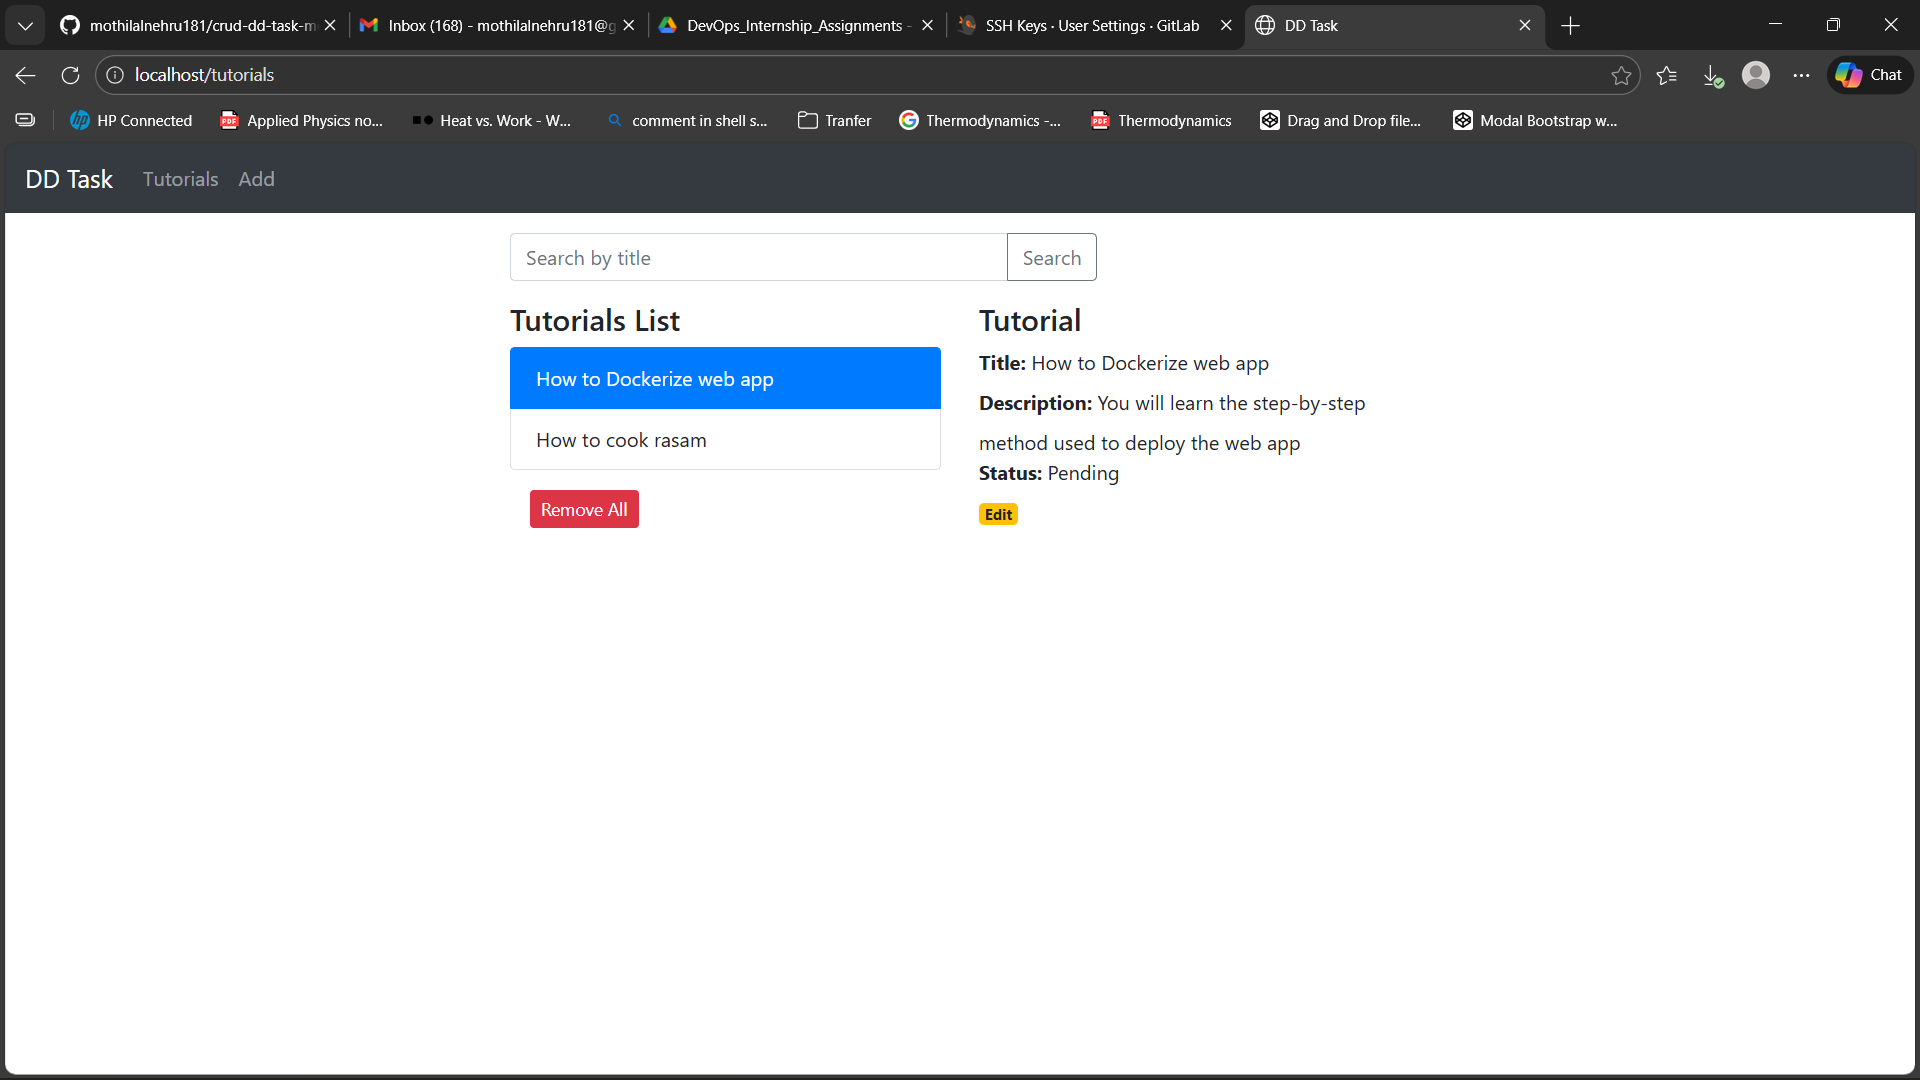
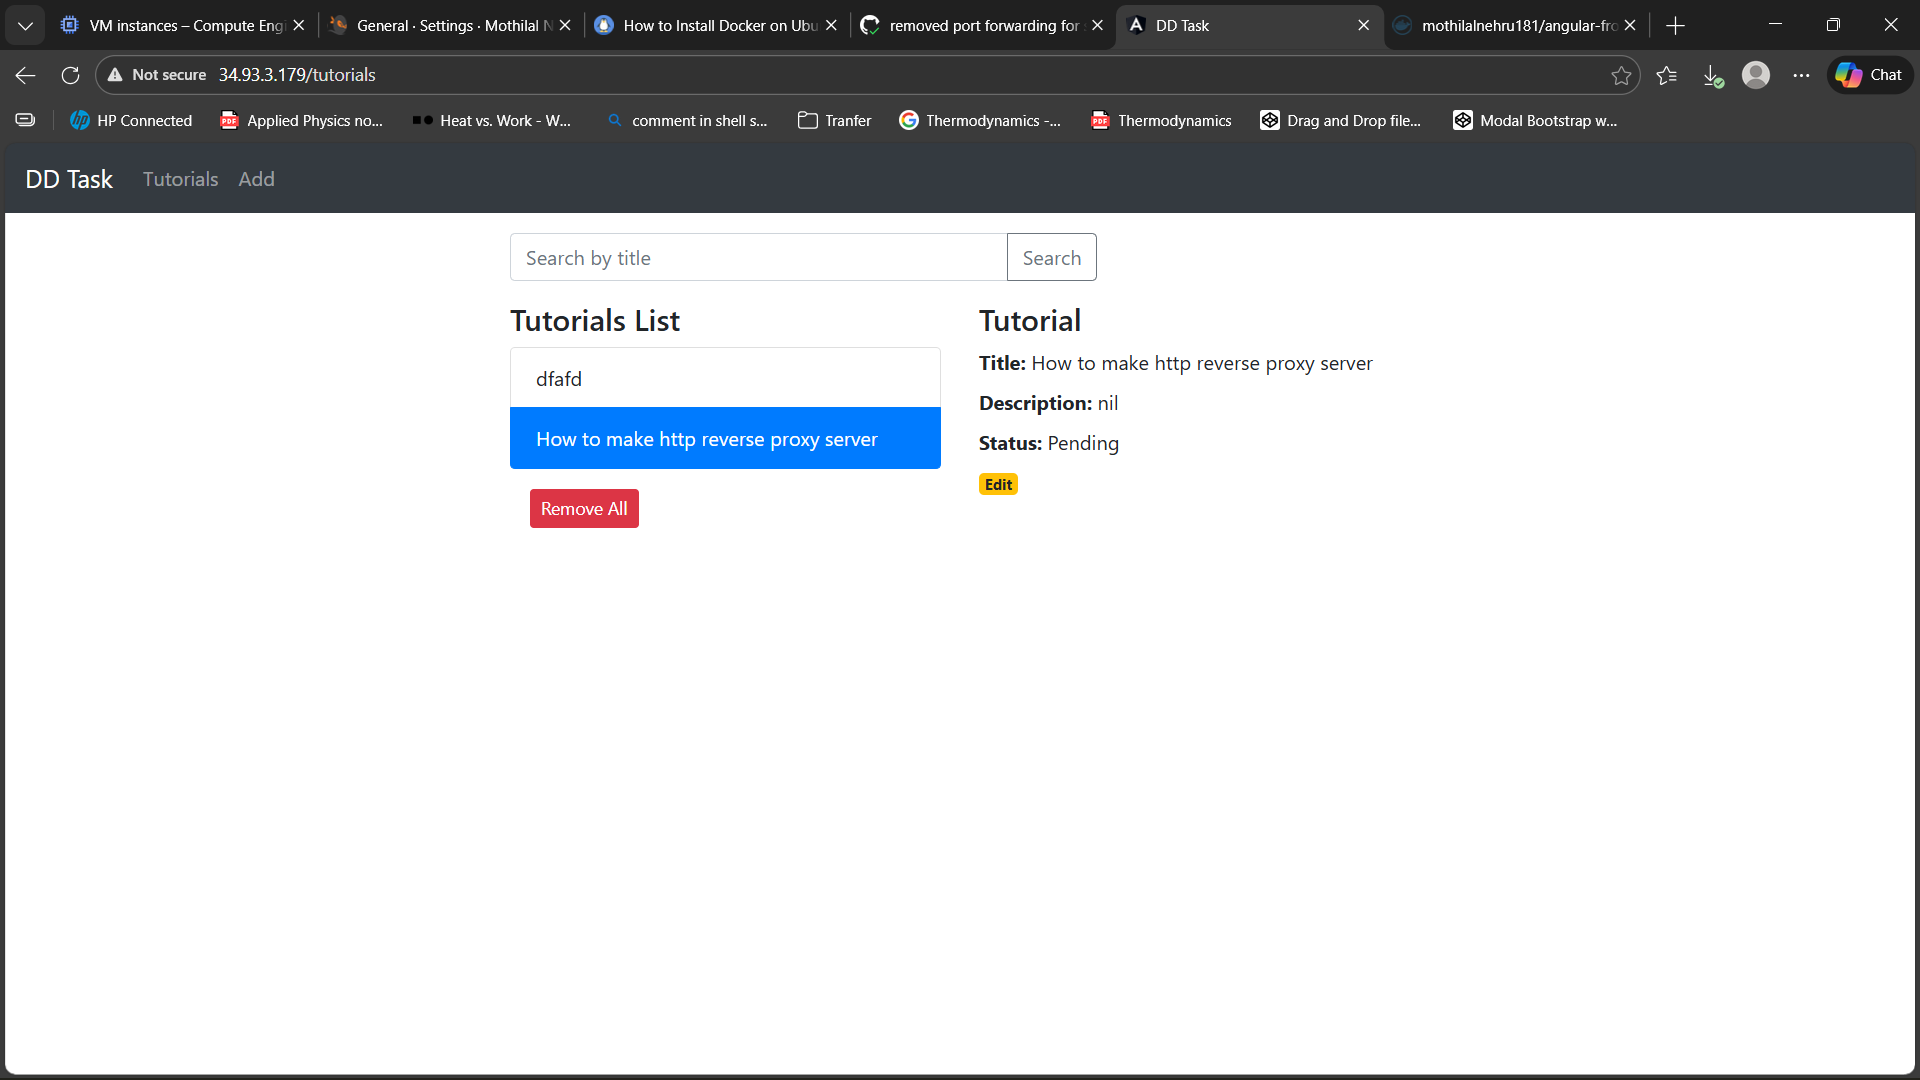
modified README.md

diff --git a/README.md b/README.md
@@ -88,8 +88,8 @@ Push to master
 ### Step 1: Clone the repository
 
 ```bash
-git clone https://github.com/your-username/your-repo.git
-cd your-repo
+https://github.com/mothilalnehru181/crud-dd-task-mean-app
+cd crud-dd-task-mean-app
 ```
 
 ---
@@ -128,10 +128,9 @@ git push origin master
 ```
 
 The pipeline will automatically:
-1. Test your backend and frontend
-2. Build Docker images
-3. Push images to Docker Hub
-4. Deploy to your server
+1. Build Docker images
+2. Push images to Docker Hub
+3. Deploy to your server
 
 ---
 
@@ -139,9 +138,7 @@ The pipeline will automatically:
 
 | Service | URL |
 |---|---|
-| Frontend (Angular) | http://localhost:80/tutorials |
-| Backend API | http://localhost:80/api |
-| MongoDB | mongodb://localhost:27017 |
+| crud-app | http://34.93.3.179/tutorials |
 
 ---
 
@@ -167,3 +164,5 @@ User → http://localhost (port 80)
 
 ### Application Deployment and Working UI
 ![Application UI](screenshots/app-ui.png)
+### Application Deployment and Working UI
+![Application UI](screenshots/ci-deploy.png)
